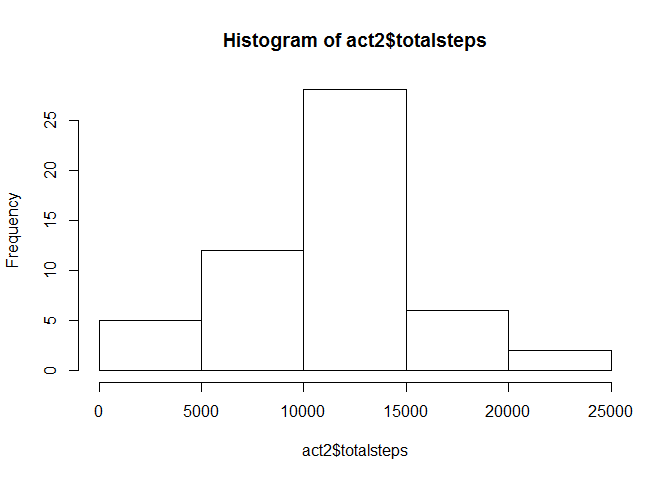
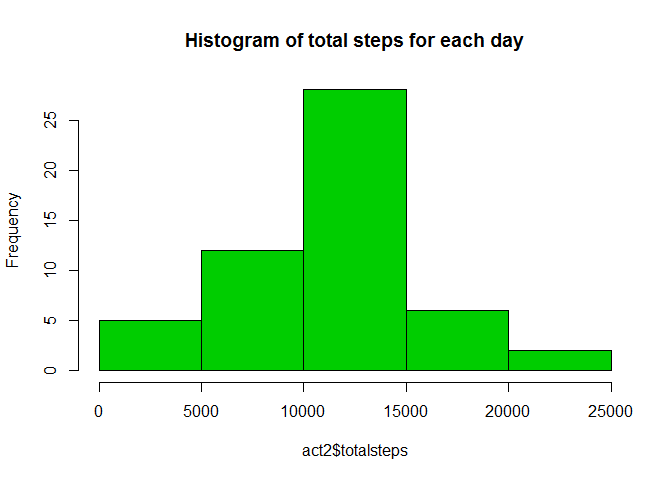
final result

Changed region(s): [[0.125, 0.1875, 0.9062, 0.7812], [0.25, 0.0625, 0.7812, 0.125]]

diff --git a/PA1_template.html b/PA1_template.html
@@ -128,19 +128,91 @@ activity&lt;-read.csv(&quot;activity.csv&quot;)</code></pre>
 <div id="what-is-mean-total-number-of-steps-taken-per-day" class="section level2">
 <h2>What is mean total number of steps taken per day?</h2>
 <pre class="r"><code>library(dplyr,warn.conflicts = FALSE)
-act1&lt;-group_by(activity,date)
+act0&lt;-filter(activity,!is.na(activity$steps))
+act1&lt;-group_by(act0,date)
 act2&lt;-summarise(act1,totalsteps=sum(steps))
-hist(act2$totalsteps)</code></pre>
[1 lines of base64/hex data omitted]
+
+hist(act2$totalsteps,col=3,main=&quot;Histogram of total steps for each day&quot;)</code></pre>
[1 lines of base64/hex data omitted]
+<pre class="r"><code>stepssummary&lt;-summary(act2$totalsteps)
+paste(&quot;Median : &quot; , stepssummary[&quot;Median&quot;], &quot;  Mean : &quot; ,stepssummary[&quot;Mean&quot;])</code></pre>
+<pre><code>## [1] &quot;Median :  10760   Mean :  10770&quot;</code></pre>
 </div>
 <div id="what-is-the-average-daily-activity-pattern" class="section level2">
 <h2>What is the average daily activity pattern?</h2>
+<pre class="r"><code>act3&lt;-group_by(act0,interval)
+act4&lt;-summarise(act3,averagesteps=mean(steps))
+
+
+plot(act4$interval,act4$averagesteps,type=&quot;l&quot;,main=&quot;The average daily acitivity pattern&quot;,xlab=&quot;Interval&quot;,ylab=&quot;Total steps&quot;,col=4)</code></pre>
[1 lines of base64/hex data omitted]
+<pre class="r"><code>maxSteps&lt;-max(act4$averagesteps)
+MaxStepInterval&lt;-filter(act4,averagesteps==maxSteps)
+paste(&quot;The 5-minute interval, which  contains the maximum number of steps is &quot;, MaxStepInterval$interval) </code></pre>
+<pre><code>## [1] &quot;The 5-minute interval, which  contains the maximum number of steps is  835&quot;</code></pre>
 </div>
 <div id="imputing-missing-values" class="section level2">
 <h2>Imputing missing values</h2>
+<div id="using-the-average-steps-for-each-5-minute-interval-for-all-days-to-replace-missing-values-in-the-dataset-i-can-find-no-change-in-the-value-of-mean-but-the-median-changed-from-10760-to-10770." class="section level3">
+<h3>Using the average steps for each 5-minute interval for all days to replace missing values in the dataset, I can find no change in the value of mean, but the median changed from 10760 to 10770.</h3>
+</div>
+<div id="increasing-the-number-of-samples-affected-the-medians-change" class="section level3">
+<h3>Increasing the number of samples affected the median’s change,</h3>
+</div>
+<div id="on-the-other-hand-as-i-used-average-values-to-fulfill-the-missing-values-the-mean-of-the-samples-is-not-affected." class="section level3">
+<h3>On the other hand, as I used average values to fulfill the missing values, the mean of the samples is not affected.</h3>
+<pre class="r"><code>naData&lt;-filter(activity,is.na(steps))
+paste(&quot;The number of Missing data in the dataset is : &quot;, dim(naData)[1])</code></pre>
+<pre><code>## [1] &quot;The number of Missing data in the dataset is :  2304&quot;</code></pre>
+<pre class="r"><code>activity0&lt;-mutate(activity,intervalf=as.factor(interval))
+avgSteps&lt;-mutate(act4,intervalf=as.factor(interval))
+act5&lt;-merge(activity0,avgSteps,by=&quot;intervalf&quot;)
+act5[is.na(act5$steps),]$steps&lt;-act5[is.na(act5$step),]$averagesteps
+act5&lt;-select(act5,- c(intervalf,interval.y,averagesteps))
+act6&lt;-arrange(act5,date,interval.x)
+activityRevised&lt;-rename(act6,interval=interval.x)
+
+
+
+act1R&lt;-group_by(activityRevised,date)
+act2R&lt;-summarise(act1R,averagesteps=sum(steps))
+
+hist(act2R$averagesteps,col=4,main=&quot;Histogram of total steps for each day after NA replaced&quot;)</code></pre>
[1 lines of base64/hex data omitted]
+<pre class="r"><code>stepssummaryR&lt;-summary(act2R$averagesteps)
+print(&quot;statistics of the revised activity data&quot;)</code></pre>
+<pre><code>## [1] &quot;statistics of the revised activity data&quot;</code></pre>
+<pre class="r"><code>paste(&quot;Median : &quot; , stepssummaryR[&quot;Median&quot;], &quot;  Mean : &quot; ,stepssummaryR[&quot;Mean&quot;], &quot;after missing values replaced&quot;)</code></pre>
+<pre><code>## [1] &quot;Median :  10770   Mean :  10770 after missing values replaced&quot;</code></pre>
+</div>
 </div>
 <div id="are-there-differences-in-activity-patterns-between-weekdays-and-weekends" class="section level2">
 <h2>Are there differences in activity patterns between weekdays and weekends?</h2>
+<div id="both-weekday-activity-and-weekend-activity-have-the-peak-around-800.-however-the-weekdays-peak-is-significantly-higher-thatn-weekend." class="section level3">
+<h3>Both weekday activity and weekend activity have the peak around 800. however the weekday’s peak is significantly higher thatn weekend.</h3>
+</div>
+<div id="in-the-range-from-100-to-1750-weekends-activity-is-higher-than-weekdays-one." class="section level3">
+<h3>In the range from 100 to 1750, weekend’s activity is higher than weekday’s one.</h3>
+</div>
+<div id="in-general-people-are-walking-in-the-morning-to-go-to-job-or-school-among-weekday-on-the-other-hand-people-can-go-out-during-day-time-in-the-weekend." class="section level3">
+<h3>In general people are walking in the morning to go to job or school among weekday, on the other hand people can go out during day time in the weekend.</h3>
+</div>
+<div id="those-figures-should-show-that-fact." class="section level3">
+<h3>those figures should show that fact.</h3>
+<pre class="r"><code>Sys.setlocale(&quot;LC_TIME&quot;,&quot;us&quot;)</code></pre>
+<pre><code>## [1] &quot;English_United States.1252&quot;</code></pre>
+<pre class="r"><code>acti0&lt;-mutate(activityRevised,wday=weekdays(as.Date(activityRevised$date)))
+acti1&lt;-mutate(acti0,wend=ifelse(wday==&quot;Saturday&quot; | wday==&quot;Sunday&quot;,&quot;Weekend&quot;,&quot;Weekday&quot;))
+
+acti2&lt;-group_by(acti1,interval,wend)
+acti3&lt;-summarise(acti2,averagesteps=mean(steps))
+
+library(ggplot2)
+
+g&lt;-ggplot(acti3,aes(interval,averagesteps))
+g+geom_line() + facet_wrap(~wend, nrow = 2, ncol = 1)</code></pre>
[1 lines of base64/hex data omitted]
+</div>
 </div>
 
 

diff --git a/PA1_template.md b/PA1_template.md
@@ -14,21 +14,133 @@ activity<-read.csv("activity.csv")
 
 ```r
 library(dplyr,warn.conflicts = FALSE)
-act1<-group_by(activity,date)
+act0<-filter(activity,!is.na(activity$steps))
+act1<-group_by(act0,date)
 act2<-summarise(act1,totalsteps=sum(steps))
-hist(act2$totalsteps)
+
+hist(act2$totalsteps,col=3,main="Histogram of total steps for each day")
 ```
 
 ![](PA1_template_files/figure-html/unnamed-chunk-2-1.png)<!-- -->
+
+```r
+stepssummary<-summary(act2$totalsteps)
+paste("Median : " , stepssummary["Median"], "  Mean : " ,stepssummary["Mean"])
+```
+
+```
+## [1] "Median :  10760   Mean :  10770"
+```
 
 
 
 ## What is the average daily activity pattern?
 
 
+```r
+act3<-group_by(act0,interval)
+act4<-summarise(act3,averagesteps=mean(steps))
+
+
+plot(act4$interval,act4$averagesteps,type="l",main="The average daily acitivity pattern",xlab="Interval",ylab="Total steps",col=4)
+```
+
+![](PA1_template_files/figure-html/unnamed-chunk-3-1.png)<!-- -->
+
+```r
+maxSteps<-max(act4$averagesteps)
+MaxStepInterval<-filter(act4,averagesteps==maxSteps)
+paste("The 5-minute interval, which  contains the maximum number of steps is ", MaxStepInterval$interval) 
+```
+
+```
+## [1] "The 5-minute interval, which  contains the maximum number of steps is  835"
+```
+
+
 
 ## Imputing missing values
+### Using the average steps for each 5-minute interval for all days to replace missing values in the dataset, I can find no change in the value of mean, but the median changed from 10760 to 10770.
+### Increasing the number of samples affected the median's change,
+### On the other hand, as I used average values to fulfill the missing values, the mean of the samples is not affected.
+
+
+```r
+naData<-filter(activity,is.na(steps))
+paste("The number of Missing data in the dataset is : ", dim(naData)[1])
+```
+
+```
+## [1] "The number of Missing data in the dataset is :  2304"
+```
+
+```r
+activity0<-mutate(activity,intervalf=as.factor(interval))
+avgSteps<-mutate(act4,intervalf=as.factor(interval))
+act5<-merge(activity0,avgSteps,by="intervalf")
+act5[is.na(act5$steps),]$steps<-act5[is.na(act5$step),]$averagesteps
+act5<-select(act5,- c(intervalf,interval.y,averagesteps))
+act6<-arrange(act5,date,interval.x)
+activityRevised<-rename(act6,interval=interval.x)
+
+
+
+act1R<-group_by(activityRevised,date)
+act2R<-summarise(act1R,averagesteps=sum(steps))
+
+hist(act2R$averagesteps,col=4,main="Histogram of total steps for each day after NA replaced")
+```
+
+![](PA1_template_files/figure-html/unnamed-chunk-4-1.png)<!-- -->
+
+```r
+stepssummaryR<-summary(act2R$averagesteps)
+print("statistics of the revised activity data")
+```
+
+```
+## [1] "statistics of the revised activity data"
+```
+
+```r
+paste("Median : " , stepssummaryR["Median"], "  Mean : " ,stepssummaryR["Mean"], "after missing values replaced")
+```
+
+```
+## [1] "Median :  10770   Mean :  10770 after missing values replaced"
+```
 
 
 
 ## Are there differences in activity patterns between weekdays and weekends?
+### Both weekday activity and weekend activity have the peak around 800. however the weekday's peak is significantly higher thatn weekend.
+### In the range from 100 to 1750, weekend's activity is higher than weekday's one. 
+### In general people are walking in the morning to go to job or school among weekday, on the other hand people can go out during day time in the weekend.
+### those figures should show that fact.
+
+```r
+Sys.setlocale("LC_TIME","us")
+```
+
+```
+## [1] "English_United States.1252"
+```
+
+```r
+acti0<-mutate(activityRevised,wday=weekdays(as.Date(activityRevised$date)))
+acti1<-mutate(acti0,wend=ifelse(wday=="Saturday" | wday=="Sunday","Weekend","Weekday"))
+
+acti2<-group_by(acti1,interval,wend)
+acti3<-summarise(acti2,averagesteps=mean(steps))
+
+library(ggplot2)
+
+g<-ggplot(acti3,aes(interval,averagesteps))
+g+geom_line() + facet_wrap(~wend, nrow = 2, ncol = 1)
+```
+
+![](PA1_template_files/figure-html/unnamed-chunk-5-1.png)<!-- -->
+
+
+
+
